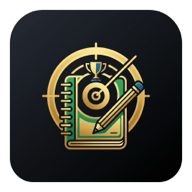
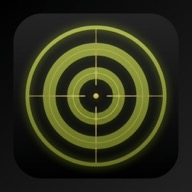
feat: novo ícone estilo foco/mira + botão zerar rotina
- Substituído ícone do app por design de mira/alvo tático
- Adicionado botão 'Zerar rotina' na tela de rotinas
- Permite apagar todas as atividades e começar do zero
- Confirmação de segurança antes de apagar

diff --git a/app-core.js b/app-core.js
@@ -643,6 +643,24 @@ document.getElementById('btnSalvarRotina').addEventListener('click', () => {
 renderRotinas();
 buildScheduleGrid();
 
+// ===== ZERAR ROTINA =====
+document.getElementById('btnZerarRotina').addEventListener('click', () => {
+    if (!confirm('⚠️ Tem certeza que deseja ZERAR toda a rotina?\n\nTodas as atividades serão apagadas e você começará do zero.')) return;
+    currentActivities = [];
+    if (editingRoutineId) {
+        const idx = rotinas.findIndex(r => r.id === editingRoutineId);
+        if (idx >= 0) {
+            rotinas[idx].atividades = [];
+        }
+    }
+    renderActivities();
+    saveAll();
+    if (typeof recalcActiveCycleHoras === 'function') {
+        recalcActiveCycleHoras();
+    }
+    showToast('Rotina zerada! Comece do zero.');
+});
+
 
 
 // ===== INIT STUDY HISTORY CONTROLS =====

diff --git a/styles.css b/styles.css
@@ -594,6 +594,16 @@ body {
     cursor: pointer; transition: var(--transition);
 }
 .btn-salvar-rotina:hover { background: rgba(107,122,42,0.25); }
+.footer-actions { display: flex; gap: 12px; align-items: center; }
+.btn-zerar-rotina {
+    padding: 10px 20px; border: 1px solid rgba(220, 53, 69, 0.4);
+    background: rgba(220, 53, 69, 0.08); color: #dc3545;
+    border-radius: 2px; font-family: var(--font-heading); font-weight: 700; font-size: 0.85rem;
+    text-transform: uppercase; letter-spacing: 1.5px;
+    cursor: pointer; transition: var(--transition);
+    display: flex; align-items: center; gap: 6px;
+}
+.btn-zerar-rotina:hover { background: rgba(220, 53, 69, 0.2); border-color: rgba(220, 53, 69, 0.6); }
 
 /* ===== MODAL ===== */
 .modal-overlay {

diff --git a/index.html b/index.html
@@ -357,7 +357,10 @@
                         <span class="total-hours" id="totalHours">0:00h</span>
                         <span class="footer-label">Total de horas para estudo</span>
                     </div>
-                    <button class="btn-salvar-rotina" id="btnSalvarRotina">Salvar rotina</button>
+                    <div class="footer-actions">
+                        <button class="btn-zerar-rotina" id="btnZerarRotina"><i class="bi bi-trash3"></i> Zerar rotina</button>
+                        <button class="btn-salvar-rotina" id="btnSalvarRotina">Salvar rotina</button>
+                    </div>
                 </div>
             </div>
         </section>